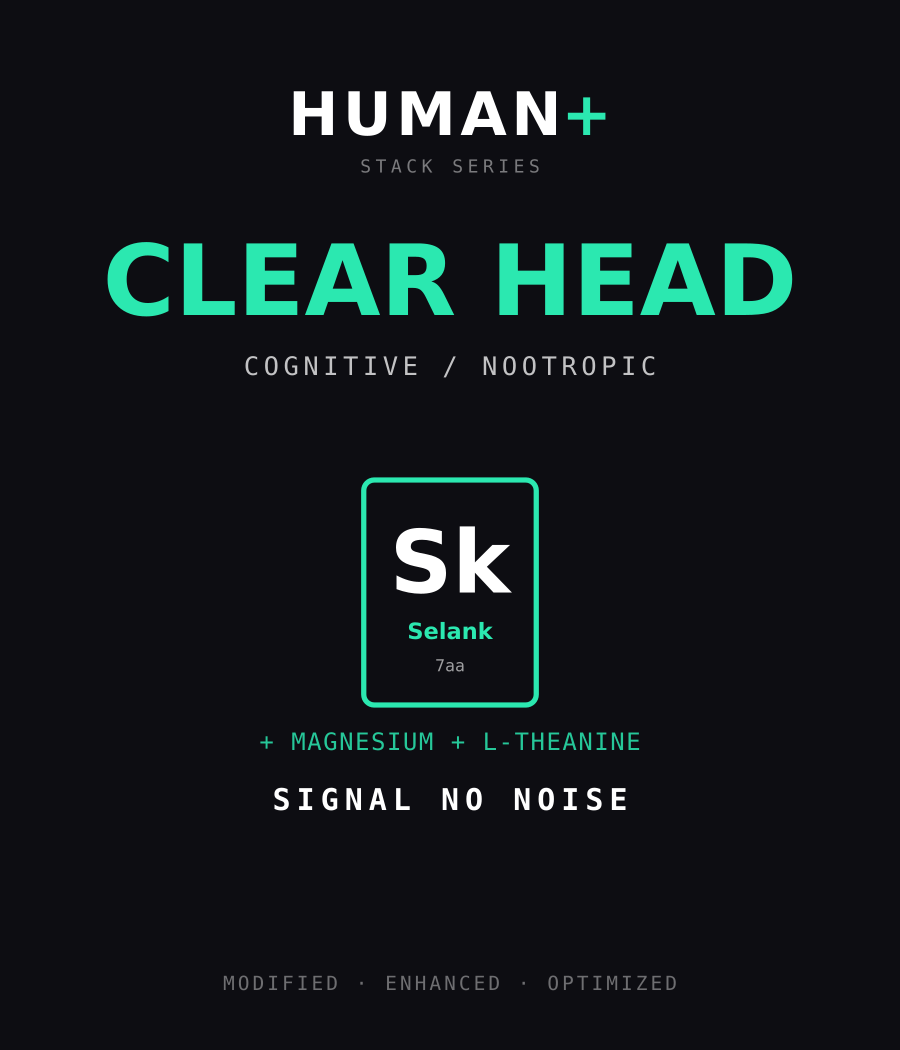
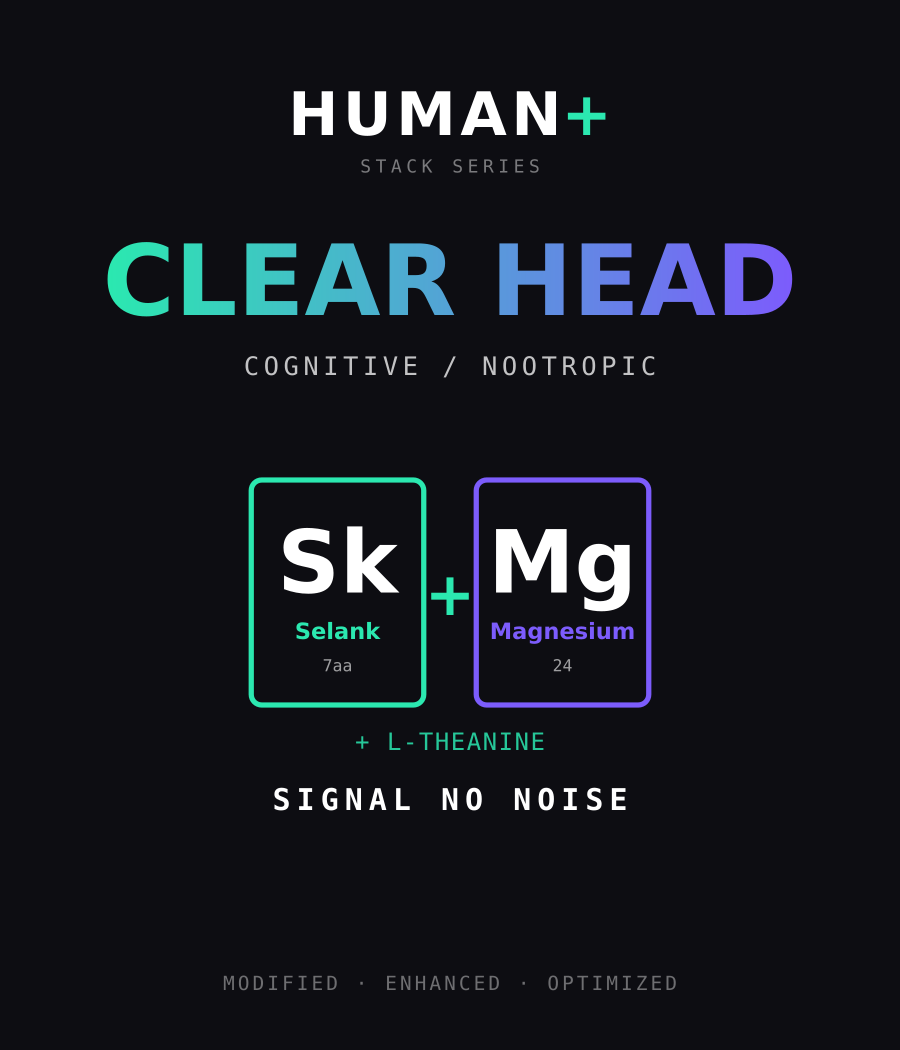
Add Printful-template export (3600x4800) + Magnesium element
PRINTFUL EXPORT:
- New 'Printful PNG (12x16)' download button on the builder: places the art on
  Printful's standard front DTG print area (12x16in @ 300 DPI = 3600x4800px,
  transparent), centered with even margins, honoring the chosen garment/accent
  (white-shirt = dark ink). Drops straight into Printful's print zone, no rescale.
- Matching batch output: generator now also writes print/printful/ and
  print/printful/light/ (3600x4800) for every compound, stack and blend, so the
  pre-generated assets are Printful-ready too.
- Verified: PNGs are exactly 3600x4800 RGBA transparent; art centered; light
  variant uses dark ink (rendered samples checked).

MAGNESIUM:
- Added Mg (Magnesium) as a real periodic element in the MOLECULE family -
  accurate symbol/number (24 g/mol), 'Essential Mineral', tagline THE SPARK PLUG.
- CLEAR HEAD stack now uses the real Mg tile instead of the text 'magnesium'
  extra.
- Mythos identity added: THE KEYSTONE (alchemist/sapphire).

Verified: 41 elements in builder, JS valid, routes fine.

Changed region(s): [[0.2489, 0.4571, 0.7467, 0.7314], [0.5289, 0.2133, 0.9022, 0.3048], [0.2489, 0.2133, 0.4978, 0.3048]]

diff --git a/designs/index.html b/designs/index.html
@@ -183,6 +183,7 @@
         <div class="row" style="margin-top:14px;">
           <button class="btn btn-primary" id="downloadBtn">Download SVG</button>
           <button class="btn btn-primary" id="downloadPngBtn">Download PNG</button>
+          <button class="btn btn-primary" id="downloadPrintfulBtn">Printful PNG (12&times;16)</button>
           <button class="btn btn-ghost" id="addCartBtn">Add to cart (demo)</button>
         </div>
         <p class="hint">Demo prototype — "add to cart" is a placeholder. Download gives you the print-ready vector.</p>
@@ -576,6 +577,16 @@ const DB = {
 "formula": "C13H16N2O2"
 },
 {
+"sym": "Mg",
+"full": "Magnesium",
+"sub": "Essential Mineral",
+"fam": "MOL",
+"name_num": "",
+"count": 24,
+"tag": "THE SPARK PLUG",
+"formula": "Mg"
+},
+{
 "sym": "Na",
 "full": "NAD+",
 "sub": "Nicotinamide Dinucl.",
@@ -815,10 +826,11 @@ const DB = {
 "name": "CLEAR HEAD",
 "sub": "Cognitive / Nootropic",
 "comps": [
-"Sk"
+"Sk",
+"Mg"
 ],
 "tag": "SIGNAL NO NOISE",
-"extras": "magnesium + L-theanine"
+"extras": "L-theanine"
 },
 {
 "name": "GAME DAY",
@@ -1428,6 +1440,31 @@ function downloadPNG(){
   img.onerror=()=>{URL.revokeObjectURL(url);alert("PNG export failed in this browser — use the SVG, it's print-ready.");};
   img.src=url;
 }
+// Printful-exact export: the art (12x14in @ 300dpi = 1200x1400 art units) placed
+// centered on Printful's standard 12x16in DTG front print area (3600x4800px,
+// transparent). Drops straight into Printful's print zone with no rescaling.
+const PF_W=3600, PF_H=4800;            // 12in x 16in @ 300 DPI
+function downloadPrintful(){
+  const raw=currentArt||recolorArt(currentDesignSVG(),garmentColor,accentColor);
+  const artW=PF_W, artH=Math.round(PF_W*1400/1200);   // 3600 x 4200 (keep 6:7)
+  const offY=Math.round((PF_H-artH)/2);               // center vertically in 16in
+  const inner=raw.replace(/^<svg[^>]*>/i,'').replace(/<\/svg>\s*$/i,'');
+  const wrapped=`<svg xmlns="http://www.w3.org/2000/svg" width="${PF_W}" height="${PF_H}" viewBox="0 0 ${PF_W} ${PF_H}">`
+    +`<svg x="0" y="${offY}" width="${artW}" height="${artH}" viewBox="0 0 1200 1400" preserveAspectRatio="xMidYMid meet">${inner}</svg></svg>`;
+  const img=new Image();
+  const url=URL.createObjectURL(new Blob([wrapped],{type:"image/svg+xml"}));
+  img.onload=()=>{
+    const c=document.createElement('canvas');c.width=PF_W;c.height=PF_H;
+    c.getContext('2d').drawImage(img,0,0,PF_W,PF_H);
+    URL.revokeObjectURL(url);
+    c.toBlob(b=>{const a=document.createElement('a');a.href=URL.createObjectURL(b);
+      a.download=fileBase()+"_printful_3600x4800.png";a.click();URL.revokeObjectURL(a.href);},"image/png");
+  };
+  img.onerror=()=>{URL.revokeObjectURL(url);alert("Printful PNG export failed in this browser — use the SVG.");};
+  img.src=url;
+}
+const pfBtn=document.getElementById('downloadPrintfulBtn');
+if(pfBtn) pfBtn.onclick=downloadPrintful;
 const pngBtn=document.getElementById('downloadPngBtn');
 if(pngBtn) pngBtn.onclick=downloadPNG;
 document.getElementById('addCartBtn').onclick=()=>alert("Demo only — this is where checkout would go.\n\nStack: "+selected.join(" + "));

diff --git a/designs/gallery.html b/designs/gallery.html
@@ -91,6 +91,7 @@
     <figure><img src="preview/tile_Dh_DHEA.png" alt="tile_Dh_DHEA" loading="lazy"><figcaption>tile_Dh_DHEA</figcaption></figure>
     <figure><img src="preview/tile_T3_Liothyronine.png" alt="tile_T3_Liothyronine" loading="lazy"><figcaption>tile_T3_Liothyronine</figcaption></figure>
     <figure><img src="preview/tile_Ml_Melatonin.png" alt="tile_Ml_Melatonin" loading="lazy"><figcaption>tile_Ml_Melatonin</figcaption></figure>
+    <figure><img src="preview/tile_Mg_Magnesium.png" alt="tile_Mg_Magnesium" loading="lazy"><figcaption>tile_Mg_Magnesium</figcaption></figure>
     <figure><img src="preview/tile_Na_NAD.png" alt="tile_Na_NAD" loading="lazy"><figcaption>tile_Na_NAD</figcaption></figure>
     <figure><img src="preview/tile_Mq_5-Amino-1MQ.png" alt="tile_Mq_5-Amino-1MQ" loading="lazy"><figcaption>tile_Mq_5-Amino-1MQ</figcaption></figure>
     <figure><img src="preview/tile_Mb_MethyleneBlue.png" alt="tile_Mb_MethyleneBlue" loading="lazy"><figcaption>tile_Mb_MethyleneBlue</figcaption></figure>

diff --git a/designs/generate_tiles.py b/designs/generate_tiles.py
@@ -91,6 +91,7 @@ ELEMENTS = [
     ("T3", "Liothyronine",   "Thyroid T3",           "HOR", "", 651, "THROTTLE THE FURNACE", "C15H12I3NO4"),
     ("Ml", "Melatonin",      "Pineal Hormone",       "HOR", "", 232, "LIGHTS OUT",           "C13H16N2O2"),
     # --- MOLECULE FAMILY : metabolic cofactors / small-molecule nootropics, by g/mol ---
+    ("Mg", "Magnesium",      "Essential Mineral",    "MOL", "", 24,  "THE SPARK PLUG",      "Mg"),
     ("Na", "NAD+",           "Nicotinamide Dinucl.", "MOL", "", 663, "CELLULAR CURRENCY",    "C21H27N7O14P2"),
     ("Mq", "5-Amino-1MQ",    "NNMT Inhibitor",       "MOL", "", 159, "DELETE THE FAT GENE",  "C10H11N2"),
     ("Mb", "Methylene Blue", "Methylthioninium",     "MOL", "", 320, "ELECTRON DONOR",       "C16H18ClN3S"),
@@ -124,7 +125,7 @@ STACKS = [
     ("LIMITLESS",       "Cognitive / Nootropic",["Sx", "Mb"],            "NO CEILING",             "nootropic support"),
     ("LOCK IN",         "Cognitive / Nootropic",["Sx"],                  "TUNNEL VISION",          "caffeine + L-theanine + tyrosine"),
     ("IRON MIND",       "Cognitive / Nootropic",["Sk"],                  "FORGE THE MIND",         "Lion's Mane + Rhodiola + Bacopa"),
-    ("CLEAR HEAD",      "Cognitive / Nootropic",["Sk"],                  "SIGNAL NO NOISE",        "magnesium + L-theanine"),
+    ("CLEAR HEAD",      "Cognitive / Nootropic",["Sk", "Mg"],            "SIGNAL NO NOISE",        "L-theanine"),
     ("GAME DAY",        "Cognitive / Nootropic",["Sx"],                  "GO TIME",                "performance nootropic support"),
     # --- Mito / longevity / aesthetic ---
     ("REACTOR",         "Mito / Longevity",    ["Ss", "Mc"],             "POWER THE CORE",         ""),
@@ -475,6 +476,34 @@ def light_variant(svg):
                .replace("#FFF", WHITE_INK).replace("#fff", WHITE_INK))
 
 
+# Printful standard front DTG print area: 12in x 16in @ 300 DPI = 3600 x 4800 px.
+# Our art is 12in x 14in (1200x1400, 6:7); we center it on the 16in-tall canvas.
+PF_W, PF_H = 3600, 4800
+PF_ART_W, PF_ART_H = 3600, 4200            # art keeps 6:7 at full width
+PF_OFF_Y = (PF_H - PF_ART_H) // 2          # 300px top/bottom margin
+
+
+def printful_wrap(svg):
+    """Center the 1200x1400 art on Printful's 3600x4800 transparent print area."""
+    inner = re.sub(r'^\s*<\?xml[^>]*\?>', '', svg)
+    inner = re.sub(r'^\s*<svg[^>]*>', '', inner).rsplit('</svg>', 1)[0]
+    return (f'<svg xmlns="http://www.w3.org/2000/svg" width="{PF_W}" height="{PF_H}" '
+            f'viewBox="0 0 {PF_W} {PF_H}">'
+            f'<svg x="0" y="{PF_OFF_Y}" width="{PF_ART_W}" height="{PF_ART_H}" '
+            f'viewBox="0 0 1200 1400" preserveAspectRatio="xMidYMid meet">{inner}</svg></svg>')
+
+
+def render_printful(svg, png_path, light=False):
+    """Render a Printful-template PNG: art centered on a 3600x4800 transparent
+    canvas (12x16in @ 300 DPI), ready to drop straight into Printful's print zone."""
+    art = strip_bg(svg)
+    if light:
+        art = light_variant(art)
+    art = printful_wrap(art)
+    subprocess.run(["rsvg-convert", "-w", str(PF_W), "-h", str(PF_H), "-o", png_path, "-"],
+                   input=art.encode("utf-8"), check=True)
+
+
 def render_print(svg, png_path, light=False):
     """Render `svg` (a string) to a transparent, high-res print PNG.
     rsvg-convert with no `-b` flag preserves the SVG's transparent background."""
@@ -491,10 +520,14 @@ def main():
     prev_dir = os.path.join(here, "preview")
     print_dir = os.path.join(here, "print")          # dark-garment print PNGs
     print_light_dir = os.path.join(print_dir, "light")  # light-garment variant
+    pf_dir = os.path.join(here, "print", "printful")        # Printful 3600x4800 (dark ink)
+    pf_light_dir = os.path.join(pf_dir, "light")            # Printful 3600x4800 (light-garment ink)
     os.makedirs(svg_dir, exist_ok=True)
     os.makedirs(prev_dir, exist_ok=True)
     os.makedirs(print_dir, exist_ok=True)
     os.makedirs(print_light_dir, exist_ok=True)
+    os.makedirs(pf_dir, exist_ok=True)
+    os.makedirs(pf_light_dir, exist_ok=True)
 
     made = []
     printed = 0
@@ -509,6 +542,8 @@ def main():
         render_png(sp, os.path.join(prev_dir, base + ".png"))
         render_print(svg, os.path.join(print_dir, base + ".png"))
         render_print(svg, os.path.join(print_light_dir, base + ".png"), light=True)
+        render_printful(svg, os.path.join(pf_dir, base + ".png"))
+        render_printful(svg, os.path.join(pf_light_dir, base + ".png"), light=True)
         printed += 1
         made.append(base)
 
@@ -522,6 +557,8 @@ def main():
         render_png(sp, os.path.join(prev_dir, base + ".png"))
         render_print(svg, os.path.join(print_dir, base + ".png"))
         render_print(svg, os.path.join(print_light_dir, base + ".png"), light=True)
+        render_printful(svg, os.path.join(pf_dir, base + ".png"))
+        render_printful(svg, os.path.join(pf_light_dir, base + ".png"), light=True)
         printed += 1
         made.append(base)
 
@@ -537,6 +574,8 @@ def main():
         render_png(sp, os.path.join(prev_dir, base + ".png"))
         render_print(svg, os.path.join(print_dir, base + ".png"))
         render_print(svg, os.path.join(print_light_dir, base + ".png"), light=True)
+        render_printful(svg, os.path.join(pf_dir, base + ".png"))
+        render_printful(svg, os.path.join(pf_light_dir, base + ".png"), light=True)
         printed += 1
         made.append(base)
 

diff --git a/designs/site_template.py b/designs/site_template.py
@@ -188,6 +188,7 @@ SITE_TEMPLATE = r"""<!DOCTYPE html>
         <div class="row" style="margin-top:14px;">
           <button class="btn btn-primary" id="downloadBtn">Download SVG</button>
           <button class="btn btn-primary" id="downloadPngBtn">Download PNG</button>
+          <button class="btn btn-primary" id="downloadPrintfulBtn">Printful PNG (12&times;16)</button>
           <button class="btn btn-ghost" id="addCartBtn">Add to cart (demo)</button>
         </div>
         <p class="hint">Demo prototype — "add to cart" is a placeholder. Download gives you the print-ready vector.</p>
@@ -587,6 +588,31 @@ function downloadPNG(){
   img.onerror=()=>{URL.revokeObjectURL(url);alert("PNG export failed in this browser — use the SVG, it's print-ready.");};
   img.src=url;
 }
+// Printful-exact export: the art (12x14in @ 300dpi = 1200x1400 art units) placed
+// centered on Printful's standard 12x16in DTG front print area (3600x4800px,
+// transparent). Drops straight into Printful's print zone with no rescaling.
+const PF_W=3600, PF_H=4800;            // 12in x 16in @ 300 DPI
+function downloadPrintful(){
+  const raw=currentArt||recolorArt(currentDesignSVG(),garmentColor,accentColor);
+  const artW=PF_W, artH=Math.round(PF_W*1400/1200);   // 3600 x 4200 (keep 6:7)
+  const offY=Math.round((PF_H-artH)/2);               // center vertically in 16in
+  const inner=raw.replace(/^<svg[^>]*>/i,'').replace(/<\/svg>\s*$/i,'');
+  const wrapped=`<svg xmlns="http://www.w3.org/2000/svg" width="${PF_W}" height="${PF_H}" viewBox="0 0 ${PF_W} ${PF_H}">`
+    +`<svg x="0" y="${offY}" width="${artW}" height="${artH}" viewBox="0 0 1200 1400" preserveAspectRatio="xMidYMid meet">${inner}</svg></svg>`;
+  const img=new Image();
+  const url=URL.createObjectURL(new Blob([wrapped],{type:"image/svg+xml"}));
+  img.onload=()=>{
+    const c=document.createElement('canvas');c.width=PF_W;c.height=PF_H;
+    c.getContext('2d').drawImage(img,0,0,PF_W,PF_H);
+    URL.revokeObjectURL(url);
+    c.toBlob(b=>{const a=document.createElement('a');a.href=URL.createObjectURL(b);
+      a.download=fileBase()+"_printful_3600x4800.png";a.click();URL.revokeObjectURL(a.href);},"image/png");
+  };
+  img.onerror=()=>{URL.revokeObjectURL(url);alert("Printful PNG export failed in this browser — use the SVG.");};
+  img.src=url;
+}
+const pfBtn=document.getElementById('downloadPrintfulBtn');
+if(pfBtn) pfBtn.onclick=downloadPrintful;
 const pngBtn=document.getElementById('downloadPngBtn');
 if(pngBtn) pngBtn.onclick=downloadPNG;
 document.getElementById('addCartBtn').onclick=()=>alert("Demo only — this is where checkout would go.\n\nStack: "+selected.join(" + "));

diff --git a/designs/generate_mythic.py b/designs/generate_mythic.py
@@ -84,6 +84,7 @@ MYTHIC = {
     "T3": ("THE FURNACE",     "alchemist", "crimson",  "Throttles the fire at the body's center."),
     "Ml": ("THE DUSK",        "sage",      "violet",   "Draws the curtain so the work can begin."),
     # molecules
+    "Mg": ("THE KEYSTONE",    "alchemist", "sapphire", "The mineral that fires three hundred reactions."),
     "Na": ("THE CURRENT",     "ascendant", "violet",   "The coin every cell must spend to live."),
     "Mq": ("THE UNMAKER",     "alchemist", "violet",   "Deletes the gene that hoards the fat."),
     "Mb": ("THE AZURE",       "alchemist", "sapphire", "Lends electrons to the failing light."),
